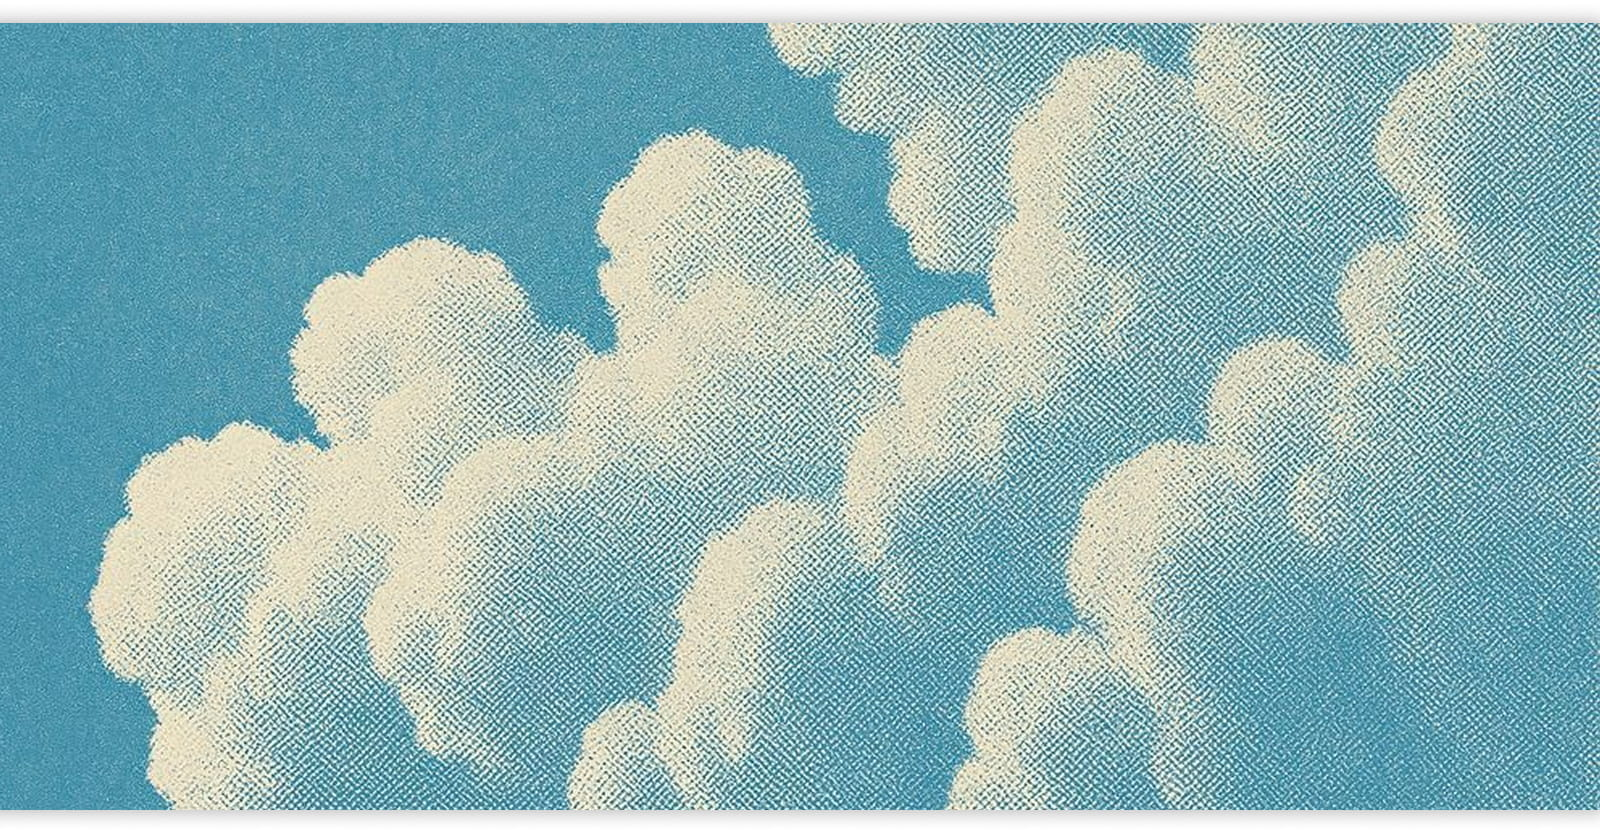
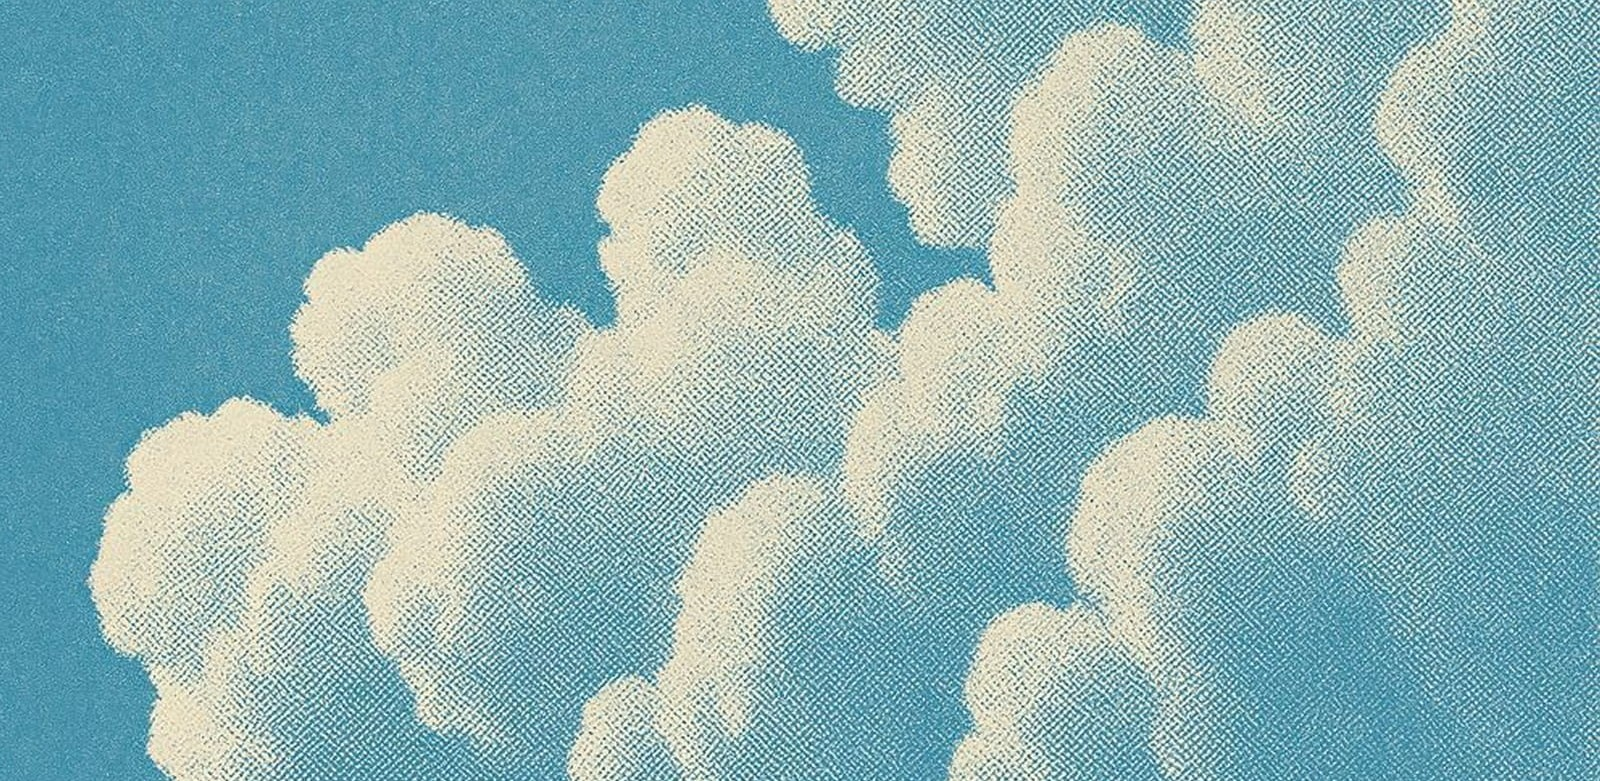
skill section

diff --git a/art128/cruzin-v2/css/style.css b/art128/cruzin-v2/css/style.css
@@ -783,13 +783,26 @@ section {
   background-position: center;
   position: relative;
   margin-top: 5em;
-
   padding: 5em 0 15em 0;
 
-  @media (min-width: 860px) {
-    padding-bottom: 25em;
+  .subsection-title {
+    text-align: left;
+    position: absolute;
+    text-align: left;
+    position: absolute;
+    top: 2em;
+    left: 1em;
+    margin: 0;
+
+
+    @media (width > 768) {
+      top: 0;
+    }
   }
 
+  @media (width < 768px) {
+    padding: 2em 1em 2em ;
+  }
   box-shadow: 0px 0px 10px 5px rgba(0,0,0,0.2);
 
   .container {
@@ -801,11 +814,6 @@ section {
     color: var(--cruzin-beige);
     margin: 0;
     text-align: left;
-  }
-
-  .subsection-title {
-    text-align: left;
-    margin: 0;
   }
 
   .subsection-title::after {
@@ -822,6 +830,8 @@ section {
   }
 }
 
+
+
 @media (min-width: 768px) {
   .skill .airplane {
     width: 85%;
@@ -831,6 +841,31 @@ section {
   form {
     width: fit-content;
     margin-inline: auto;
+  }
+}
+
+.star-row {
+  display: flex;
+  gap: 0.5em;
+  justify-content: flex-end;
+
+  img {
+    width: 8vw;     /* scales with screen width */
+    min-width: 50px; /* never too tiny */
+    max-width: 100px; /* never too big */
+  }
+
+  @media (width < 768px) {
+    flex-direction: column;
+    align-items: flex-end;
+
+    img {
+      width: 70px;
+    }
+  }
+
+  a:hover {
+    transform: scale(1.5);
   }
 }
 

diff --git a/art128/cruzin-v2/index.html b/art128/cruzin-v2/index.html
@@ -150,10 +150,17 @@
     </section>
 
     <section class="skill">
+              <h2 class="subsection-title">Choose Your Skill Level</h2>
       <div class="container">
 
-        <h2 class="subsection-title">Choose Your Skill Level</h2>
 
+        <div class="star-row">
+          <a href=""><img src="img/star.png" alt="star"></a>
+          <a href=""><img src="img/star.png" alt="star"></a>
+          <a href=""><img src="img/star.png" alt="star"></a>
+          <a href=""><img src="img/star.png" alt="star"></a>
+          <a href=""><img src="img/star.png" alt="star"></a>
+        </div>
       </div>
       <img src="img/airplane.png" alt="airplane" class="airplane">
     </section>
